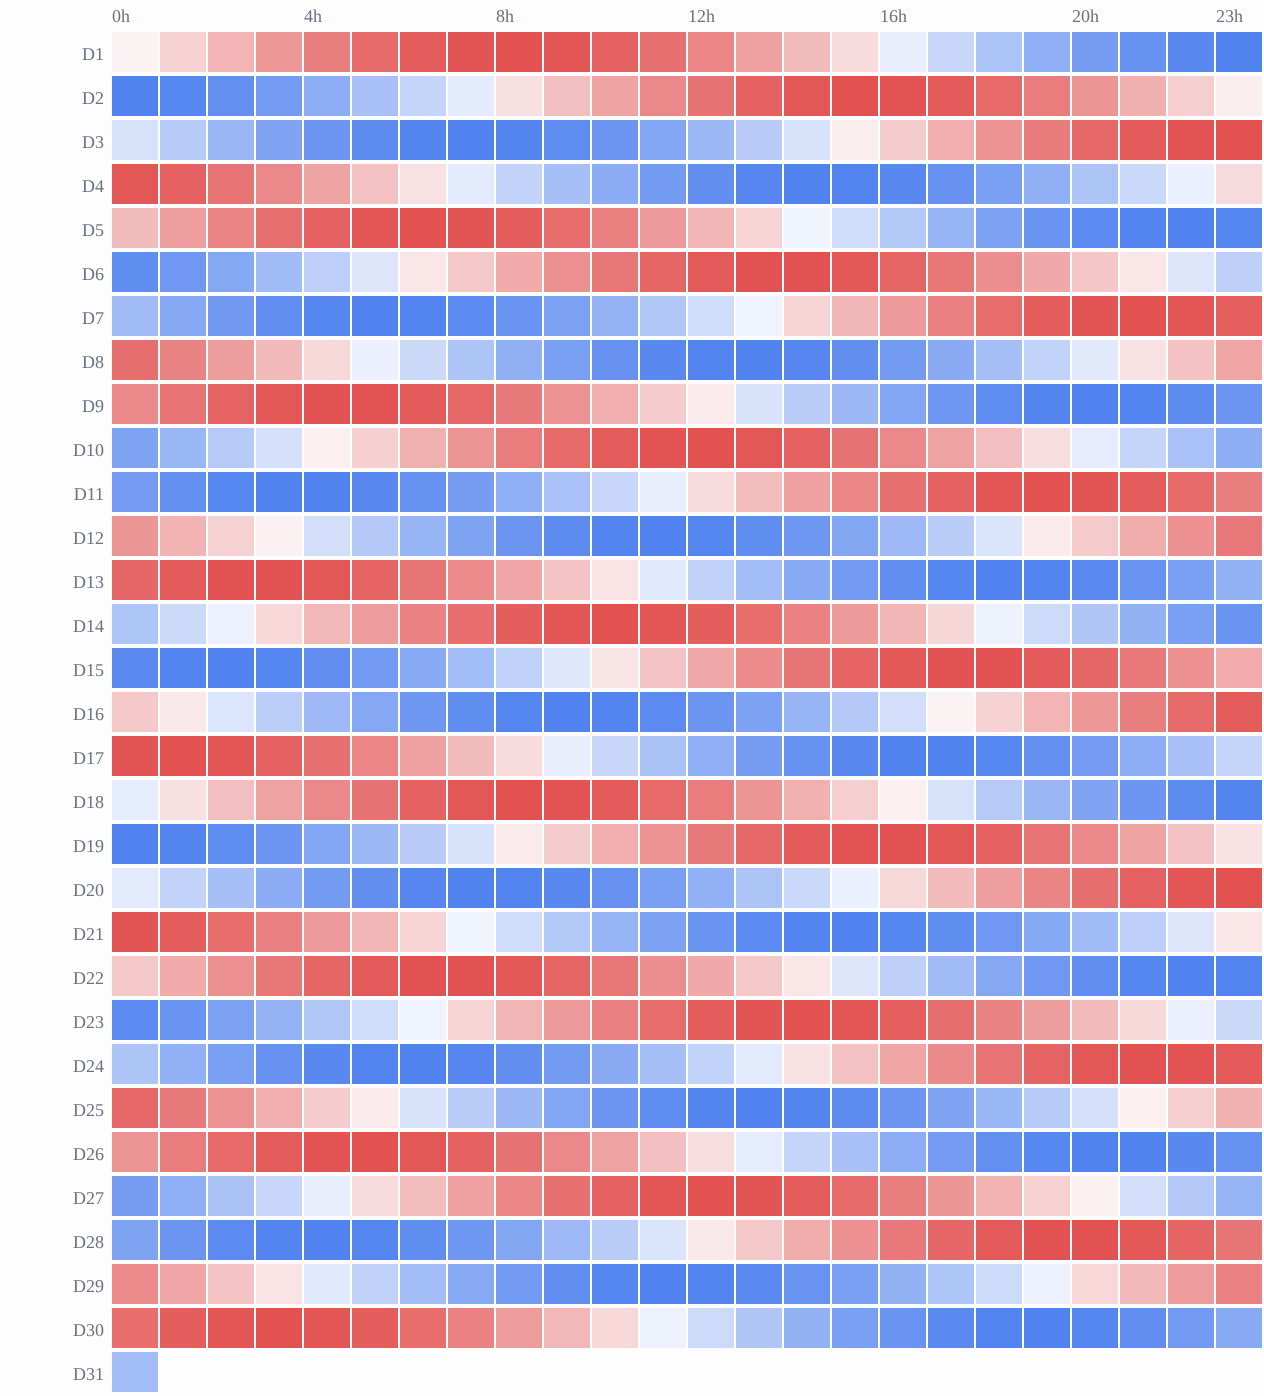
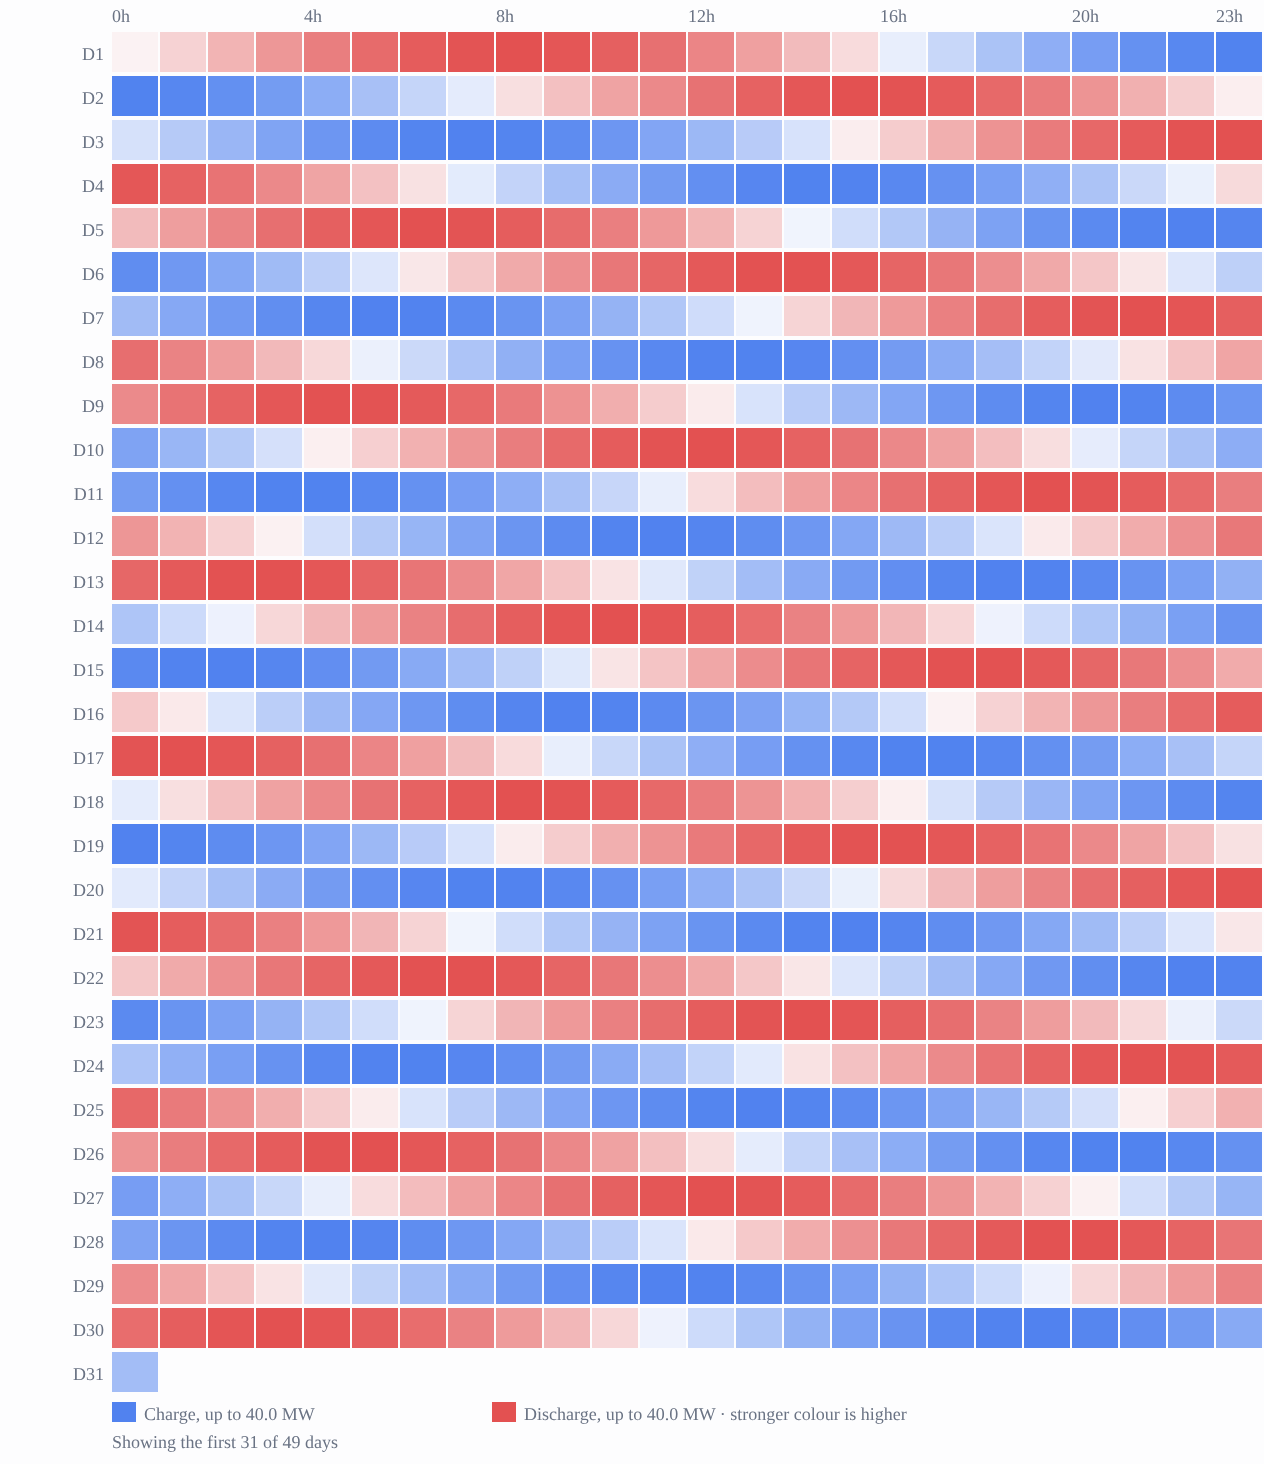
fix(pypsa-gui): saved heatmap and tornado carry their key and the shown-days note
Claude-Session: https://claude.ai/code/session_01G7qCuki2WtCN5P2EDmNakL

diff --git a/pypsa-gui/frontend/src/pages/results/StorageHeatmap.tsx b/pypsa-gui/frontend/src/pages/results/StorageHeatmap.tsx
@@ -59,14 +59,15 @@ const xmlEsc = (t: string) => t.replace(/[&<>"]/g, c => ({ '&': '&amp;', '<': '&
 /** The grid as one <svg>, for the report: opacity (not color-mix) so every renderer agrees. */
 function gridPicture(
   grid: { days: number[][]; dayLabels: string[] }, maxAbs: number, mode: 'diverging' | 'unsigned-blue' | 'unsigned-red',
-  cellW: number, cellH: number,
+  cellW: number, cellH: number, key: { negative: string; positive: string; note?: string },
 ): SerializedSVG {
   const css = getComputedStyle(document.documentElement)
   const tok = (name: string, fallback: string) => css.getPropertyValue(name).trim() || fallback
   const blue = tok('--color-info', '#2563eb'), red = tok('--color-danger', '#dc2626')
   const bg = tok('--color-bg', '#ffffff'), text = tok('--color-muted', '#64748b')
   const left = 56, top = 16
-  const width = left + 24 * cellW, height = top + grid.days.length * (cellH + 2)
+  const keyH = key.note ? 34 : 20
+  const width = left + 24 * cellW, height = top + grid.days.length * (cellH + 2) + keyH
   const parts = [`<?xml version="1.0" standalone="no"?>\r\n<svg xmlns="http://www.w3.org/2000/svg" width="${width}" height="${height}">`,
     `<rect width="100%" height="100%" fill="${bg}"/>`]
   for (const h of [0, 4, 8, 12, 16, 20, 23]) {
@@ -82,6 +83,14 @@ function gridPicture(
       parts.push(`<rect x="${left + h * cellW}" y="${y}" width="${cellW - 1}" height="${cellH}" fill="${colour}" fill-opacity="${share.toFixed(3)}"/>`)
     })
   })
+  const ky = top + grid.days.length * (cellH + 2) + 12
+  const swatch = (x: number, colour: string, label: string) => {
+    parts.push(`<rect x="${x}" y="${ky - 9}" width="12" height="10" fill="${colour}" fill-opacity="0.8"/>`,
+      `<text x="${x + 16}" y="${ky}" font-size="9" fill="${text}">${xmlEsc(label)}</text>`)
+  }
+  if (mode === 'diverging') swatch(left, blue, `${key.negative}, up to ${maxAbs.toFixed(1)} MW`)
+  swatch(mode === 'diverging' ? left + 190 : left, mode === 'unsigned-blue' ? blue : red, `${key.positive}, up to ${maxAbs.toFixed(1)} MW · stronger colour is higher`)
+  if (key.note) parts.push(`<text x="${left}" y="${ky + 14}" font-size="9" fill="${text}">${xmlEsc(key.note)}</text>`)
   parts.push('</svg>')
   return { source: parts.join(''), width, height }
 }
@@ -198,8 +207,12 @@ export default function StorageHeatmap({
               view: 'storage-heatmap', figure: `${filename}_${grid.dayDates[0]}_${grid.dayDates[grid.dayDates.length - 1]}`, unit: 'MW',
               columns: ['date', 'hour', 'power_MW'], rows,
               rowsTotal: rows.length,
-              note: grid.truncated ? `first ${MAX_DAYS} of ${grid.totalDays} days` : undefined,
-              picture: () => gridPicture(grid, grid.maxAbs, effMode, cellW, cellH),
+              note: [grid.truncated ? `Showing the first ${MAX_DAYS} of ${grid.totalDays} days` : '',
+                `${negLabel} (blue) · ${posLabel} (red) · stronger colour is higher`].filter(Boolean).join(' · '),
+              picture: () => gridPicture(grid, grid.maxAbs, effMode, cellW, cellH, {
+                negative: negLabel, positive: posLabel,
+                note: grid.truncated ? `Showing the first ${MAX_DAYS} of ${grid.totalDays} days` : undefined,
+              }),
             }} />
         )
       })()}

diff --git a/pypsa-gui/frontend/src/pages/results/reportFigures.test.tsx b/pypsa-gui/frontend/src/pages/results/reportFigures.test.tsx
@@ -70,6 +70,7 @@ describe('hour-by-day heatmap · report', () => {
     expect(a.unit).toBe('EUR/MWh')
     expect(a.columns).toEqual(['date', 'hour', 'price_EUR_per_MWh'])
     expect(a.rows_total).toBe(48)
+    expect(a.source_line).toContain('stronger colour is higher') // the key travels with the picture
   })
   it('two windows, and two carriers, give three ids', async () => {
     const ids = new Set([
@@ -95,6 +96,12 @@ describe('storage heatmap · report', () => {
     expect(spec.view).toBe('storage-heatmap')
     expect(spec.columns).toEqual(['date', 'hour', 'power_MW'])
     expect(spec.rows_total).toBe(48)
+    expect(spec.source_line).toContain('Charge (blue) · Discharge (red)')
+  })
+  it('says in the caption when only the first days are drawn', async () => {
+    const days = Array.from({ length: 33 }, (_, i) => `2030-07-${String(i + 1).padStart(2, '0')}`.replace('2030-07-3', '2030-08-0'))
+    const spec = await saved(draw(days))
+    expect(spec.source_line).toContain('Showing the first 31 of 33 days')
   })
   it('a different window or file name is a different chart', async () => {
     const ids = new Set([
@@ -116,6 +123,7 @@ describe('tornado · report', () => {
     expect(spec.view).toBe('tornado')
     expect(spec.figure).toBe('battery-npv-drivers')
     expect(spec.rows).toHaveLength(2)
+    expect(spec.source_line).toContain('red: below the base case · green: above the base case')
   })
 })
 

diff --git a/pypsa-gui/frontend/src/pages/results/HourDayHeatmap.tsx b/pypsa-gui/frontend/src/pages/results/HourDayHeatmap.tsx
@@ -152,7 +152,9 @@ export default function HourDayHeatmap({
             return {
               view: 'hour-day-heatmap', figure: `${filename}_${grid.days[0]}_${grid.days[grid.days.length - 1]}`, unit: unitOf(csv),
               columns: ['date', 'hour', csv], rows, rowsTotal: rows.length,
-              note: rows.length > kept ? `table holds the first ${kept.toLocaleString('en')} of ${rows.length.toLocaleString('en')} hours; the picture shows all` : undefined,
+              note: [`${format(scale.min)} → ${format(scale.max)}, stronger colour is higher`, scaleNote,
+                rows.length > kept ? `table holds the first ${kept.toLocaleString('en')} of ${rows.length.toLocaleString('en')} hours; the picture shows all` : undefined,
+              ].filter(Boolean).join(' · ') || undefined,
             }
           })()} />
       }

diff --git a/pypsa-gui/frontend/src/pages/results/TornadoChart.tsx b/pypsa-gui/frontend/src/pages/results/TornadoChart.tsx
@@ -214,6 +214,7 @@ export default function TornadoChart({
             view: 'tornado', figure: filename, unit: currency,
             columns: ['driver', 'input_low', 'input_high', 'unit', `npv_low_${currency}`, `npv_high_${currency}`, `swing_${currency}`],
             rows: rows.map(r => [r.label, r.low_value, r.high_value, r.unit ?? null, r.npv_low, r.npv_high, r.swing]),
+            note: `red: below the ${baseLower} · green: above the ${baseLower}`,
           }} />
       }
       bodyClassName="p-3"
